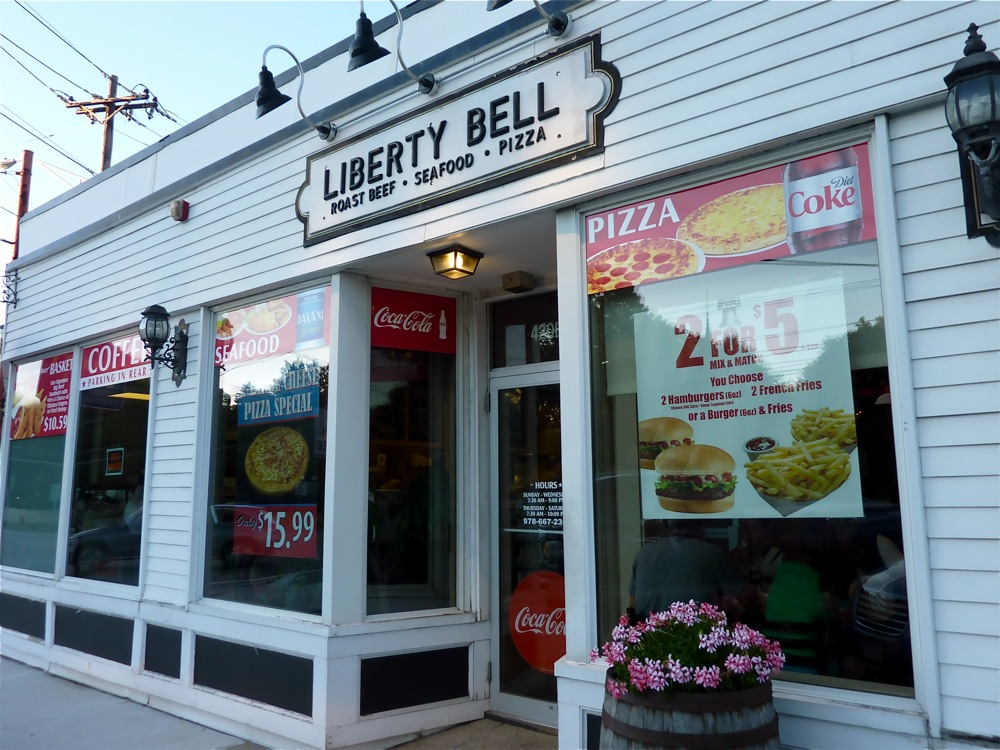
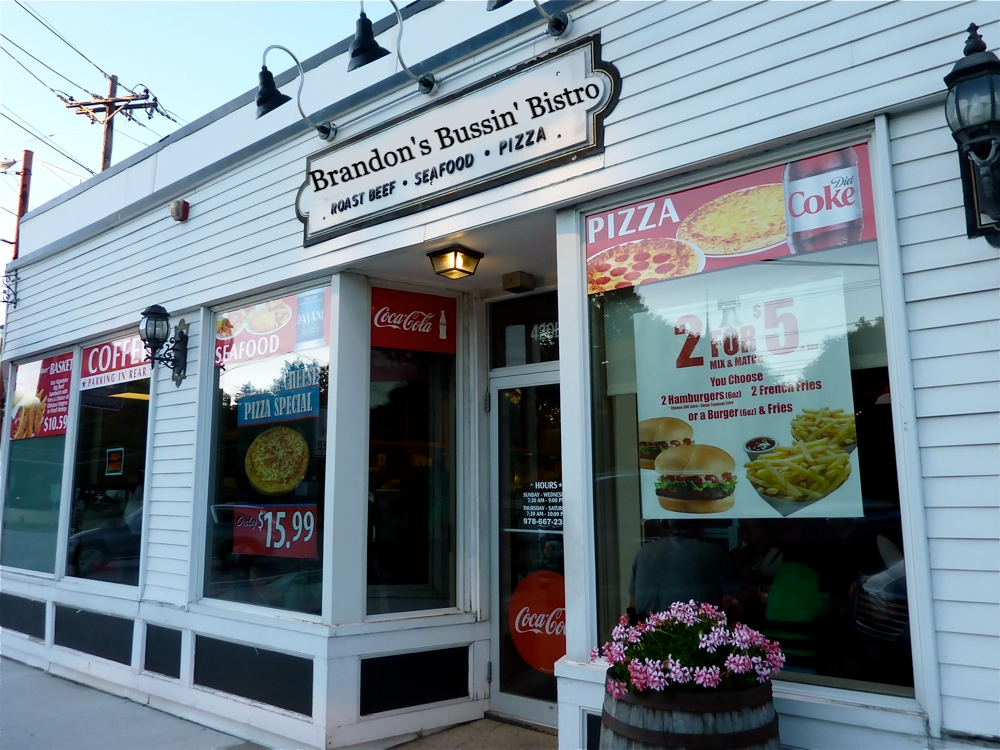
Looks good gonna throw it on Heroku

Changed region(s): [[0.31, 0.092, 0.589, 0.276]]

diff --git a/restaurant/templates/restaurant/order.html b/restaurant/templates/restaurant/order.html
@@ -7,11 +7,17 @@
 <form method="post" action="{% url 'confirmation' %}">
     {% csrf_token %}
     <p>Menu Items:</p>
-    <label><input type="checkbox" name="items" value="Pizza"> Pizza - $10</label><br>
-    <label><input type="checkbox" name="items" value="Burger"> Burger - $10</label><br>
-    <label><input type="checkbox" name="items" value="Pasta"> Pasta - $10</label><br>
-    <label><input type="checkbox" name="items" value="Salad"> Salad - $10</label><br>
-    <label><input type="checkbox" name="items" value="{{ daily_special }}"> Daily Special: {{ daily_special }} - $10</label><br>
+    <label><input type="checkbox" name="items" value="Pizza"> Pizza - $15</label><br>
+    <label><input type="checkbox" name="items" value="Burger & Fries"> Burger & Fries - $12</label><br>
+    <label><input type="checkbox" name="items" value="Chicken Alfredo"> Chicken Alfredo - $8</label><br>
+    <label><input type="checkbox" name="items" value="Caesar Salad"> Caesar Salad - $6</label><br>
+    <label><input type="checkbox" name="items" value="{{ daily_special }}"> Daily Special: {{ daily_special }} - $18.50</label><br>
+    <p>Extras:</p>
+    <label><input type="checkbox" name="extras" value="Extra Sauce Packets"> Extra Sauce Packets - $1.50</label><br>
+    <label><input type="checkbox" name="extras" value="Extra Utensils"> Extra Utensils - $0.25</label><br>
+    <label><input type="checkbox" name="extras" value="Extra Cheese"> Extra Cheese - $3</label><br>
+    <label><input type="checkbox" name="extras" value="Canned Soda"> Canned Soda - $2</label><br>
+    
     <p>Special Instructions:</p>
     <textarea name="instructions"></textarea><br>
     <p>Customer Information:</p>
@@ -19,5 +25,5 @@
     <label>Phone: <input type="text" name="phone"></label><br>
     <label>Email: <input type="email" name="email"></label><br>
     <button type="submit">Place Order</button>
-</form>
-{% endblock %}
+    </form>
+    {% endblock %}

diff --git a/static/styles.css b/static/styles.css
@@ -20,8 +20,6 @@ table {
     border: 2px solid black;
 }
 
-
-
 body {
     font-family: Cambria, Cochin, Georgia, Times, 'Times New Roman', serif;
     background-color: darkgray;
@@ -65,21 +63,21 @@ ul, li {
     max-width: 1000px;
     display: grid;
     grid-template-columns: 1fr 4fr 1fr;
-    /* grid-template-columns: repeat(3, 1fr); */
+
     column-gap: 3px;
     margin: 20px auto;
 }
 
 header { 
-    /* header spans all 6 columns */
+
     grid-column: span 6;
     text-align: center;
-    border-bottom: 1px solid #ddd;
+    border-bottom: 1px solid rgb(4, 44, 3);
 }
 
 nav {
     padding: 30px;
-    border-right: 1px solid #ddd;
+    border-right: 1px solid rgb(4, 44, 3);
     /* vertical-align: top; */
     align-items: top;
 }
@@ -106,18 +104,18 @@ main p {
 
     margin-top: 30px;
     line-height: 2em;
-    color: #777;
+    color: rgb(4, 44, 3);
 }
 
 aside {
     padding: 30px;
-    border-left: 1px solid #ddd;
+    border-left: 1px solid rgb(4, 44, 3);
 }
 
 footer { 
     grid-column: span 6;
     text-align: center;
-    border-top: 1px solid #ddd;
+    border-top: 1px solid rgb(4, 44, 3);
 }
 
 .thumbnail-grid {

diff --git a/restaurant/templates/restaurant/base.html b/restaurant/templates/restaurant/base.html
@@ -2,7 +2,7 @@
 <!DOCTYPE html>
 <html>
 <head>
-    <title>{% block title %}Restaurant{% endblock %}</title>
+    <title>{% block title %}BBB{% endblock %}</title>
     <link rel="stylesheet" href="{% static 'styles.css' %}">
 </head>
 <body>
@@ -12,13 +12,18 @@
         </header>
         <nav>
             <ul>
-                <li><a href="{% url 'main' %}">Main</a></li>
-                <li><a href="{% url 'order' %}">Order</a></li>
+                <li><a href="{% url 'main' %}">Main Page</a></li>
+                <li><a href="{% url 'order' %}">Place an Order!</a></li>
             </ul>
         </nav>
         <main>
             {% block content %}{% endblock %}
         </main>
-    </div>
+        <footer>
+            This page was generated at {{ current_time }}, and was developed by bbouley@bu.edu.
+        </footer>
+
+    </div>  
+
 </body>
 </html>

diff --git a/restaurant/templates/restaurant/confirmation.html b/restaurant/templates/restaurant/confirmation.html
@@ -11,6 +11,12 @@
     <li>{{ item }}</li>
     {% endfor %}
 </ul>
+<p>Extras Ordered:</p>
+<ul>
+    {% for extra in extras_ordered %}
+    <li>{{ extra }}</li>
+    {% endfor %}
+</ul>
 <p>Total Price: ${{ total_price }}</p>
 <p>Special Instructions: {{ special_instructions }}</p>
 <p>Customer Information:</p>

diff --git a/restaurant/templates/restaurant/main.html b/restaurant/templates/restaurant/main.html
@@ -4,7 +4,7 @@
 {% block title %} BBB Restaurant {% endblock %}
 
 {% block content %}
-<h2>Brandon's Bussin' Bistro</h2>
+<h3>The Only Boston Bistro That Is Busting And Belongs To Brandon</h3>
 <p>424 Commonwealth Avenue, Boston, MA</p>
 <p>Hours of Operation:</p>
 <ul>

diff --git a/restaurant/views.py b/restaurant/views.py
@@ -1,46 +1,86 @@
 from django.shortcuts import render
 import random
 import time
-from datetime import datetime, timedelta
 
-def main(request):
-    return render(request, 'restaurant/main.html')
-
-def order(request):
-    daily_specials = [
+# accessed by multiple funcs so it's global 
+daily_specials = [
         "The Brandon Surprise",
         "One Thousand Bees",
         "Lukewarm Diet Pepsi",
         "Onika Burger"
     ]
-    daily_special = random.choice(daily_specials)
+
+
+def main(request):
+    current_time = time.strftime('%Y-%m-%d %H:%M:%S', time.localtime())
     context = {
-        'daily_special': daily_special
+        'current_time': current_time
+    }
+    return render(request, 'restaurant/main.html', context)
+
+def order(request):
+    daily_special = random.choice(daily_specials)
+    current_time = time.strftime('%Y-%m-%d %H:%M:%S', time.localtime())
+    context = {
+        'daily_special': daily_special,
+        'current_time': current_time
     }
     return render(request, 'restaurant/order.html', context)
 
 def confirmation(request):
     if request.method == 'POST':
         items_ordered = request.POST.getlist('items')
+        extras_ordered = request.POST.getlist('extras')
         customer_name = request.POST.get('name')
         customer_phone = request.POST.get('phone')
         customer_email = request.POST.get('email')
         special_instructions = request.POST.get('instructions')
 
-        # Calculate total price (assuming each item is $10 for simplicity)
-        total_price = len(items_ordered) * 10
+        # Calculate total price using the new method
+        total_price = calculate_total_price(items_ordered, extras_ordered)
 
         # Calculate ready time
-        ready_time = datetime.now() + timedelta(minutes=random.randint(30, 60))
+        ready_time = time.localtime(time.time() + random.randint(30, 60) * 60)
+        ready_time_str = time.strftime('%H:%M:%S', ready_time)
 
+        current_time = time.strftime('%Y-%m-%d %H:%M:%S', time.localtime())
         context = {
             'items_ordered': items_ordered,
+            'extras_ordered': extras_ordered,
             'customer_name': customer_name,
             'customer_phone': customer_phone,
             'customer_email': customer_email,
             'special_instructions': special_instructions,
             'total_price': total_price,
-            'ready_time': ready_time.strftime('%H:%M:%S')
+            'ready_time': ready_time_str,
+            'current_time': current_time
         }
         return render(request, 'restaurant/confirmation.html', context)
     return render(request, 'restaurant/order.html')
+
+def calculate_total_price(items_ordered, extras_ordered):
+    prices = {
+        "Pizza": 15,
+        "Burger & Fries": 12,
+        "Chicken Alfredo": 8,
+        "Caesar Salad": 6,
+        "Daily Special": 18.50
+    }
+    extras_prices = {
+    "Extra Sauce Packets": 1.50,
+    "Extra Utensils": 0.25,
+    "Extra Cheese": 3,
+    "Canned Soda": 2
+    }
+    total_price = 0
+    for item in items_ordered:
+        # Check if the item is in the daily specials list
+        if item in daily_specials:
+            total_price += prices["Daily Special"]
+        else:
+            total_price += prices.get(item, 0)
+    
+    for extra in extras_ordered:
+        total_price += extras_prices.get(extra, 0)
+    
+    return f"{total_price:.2f}"
